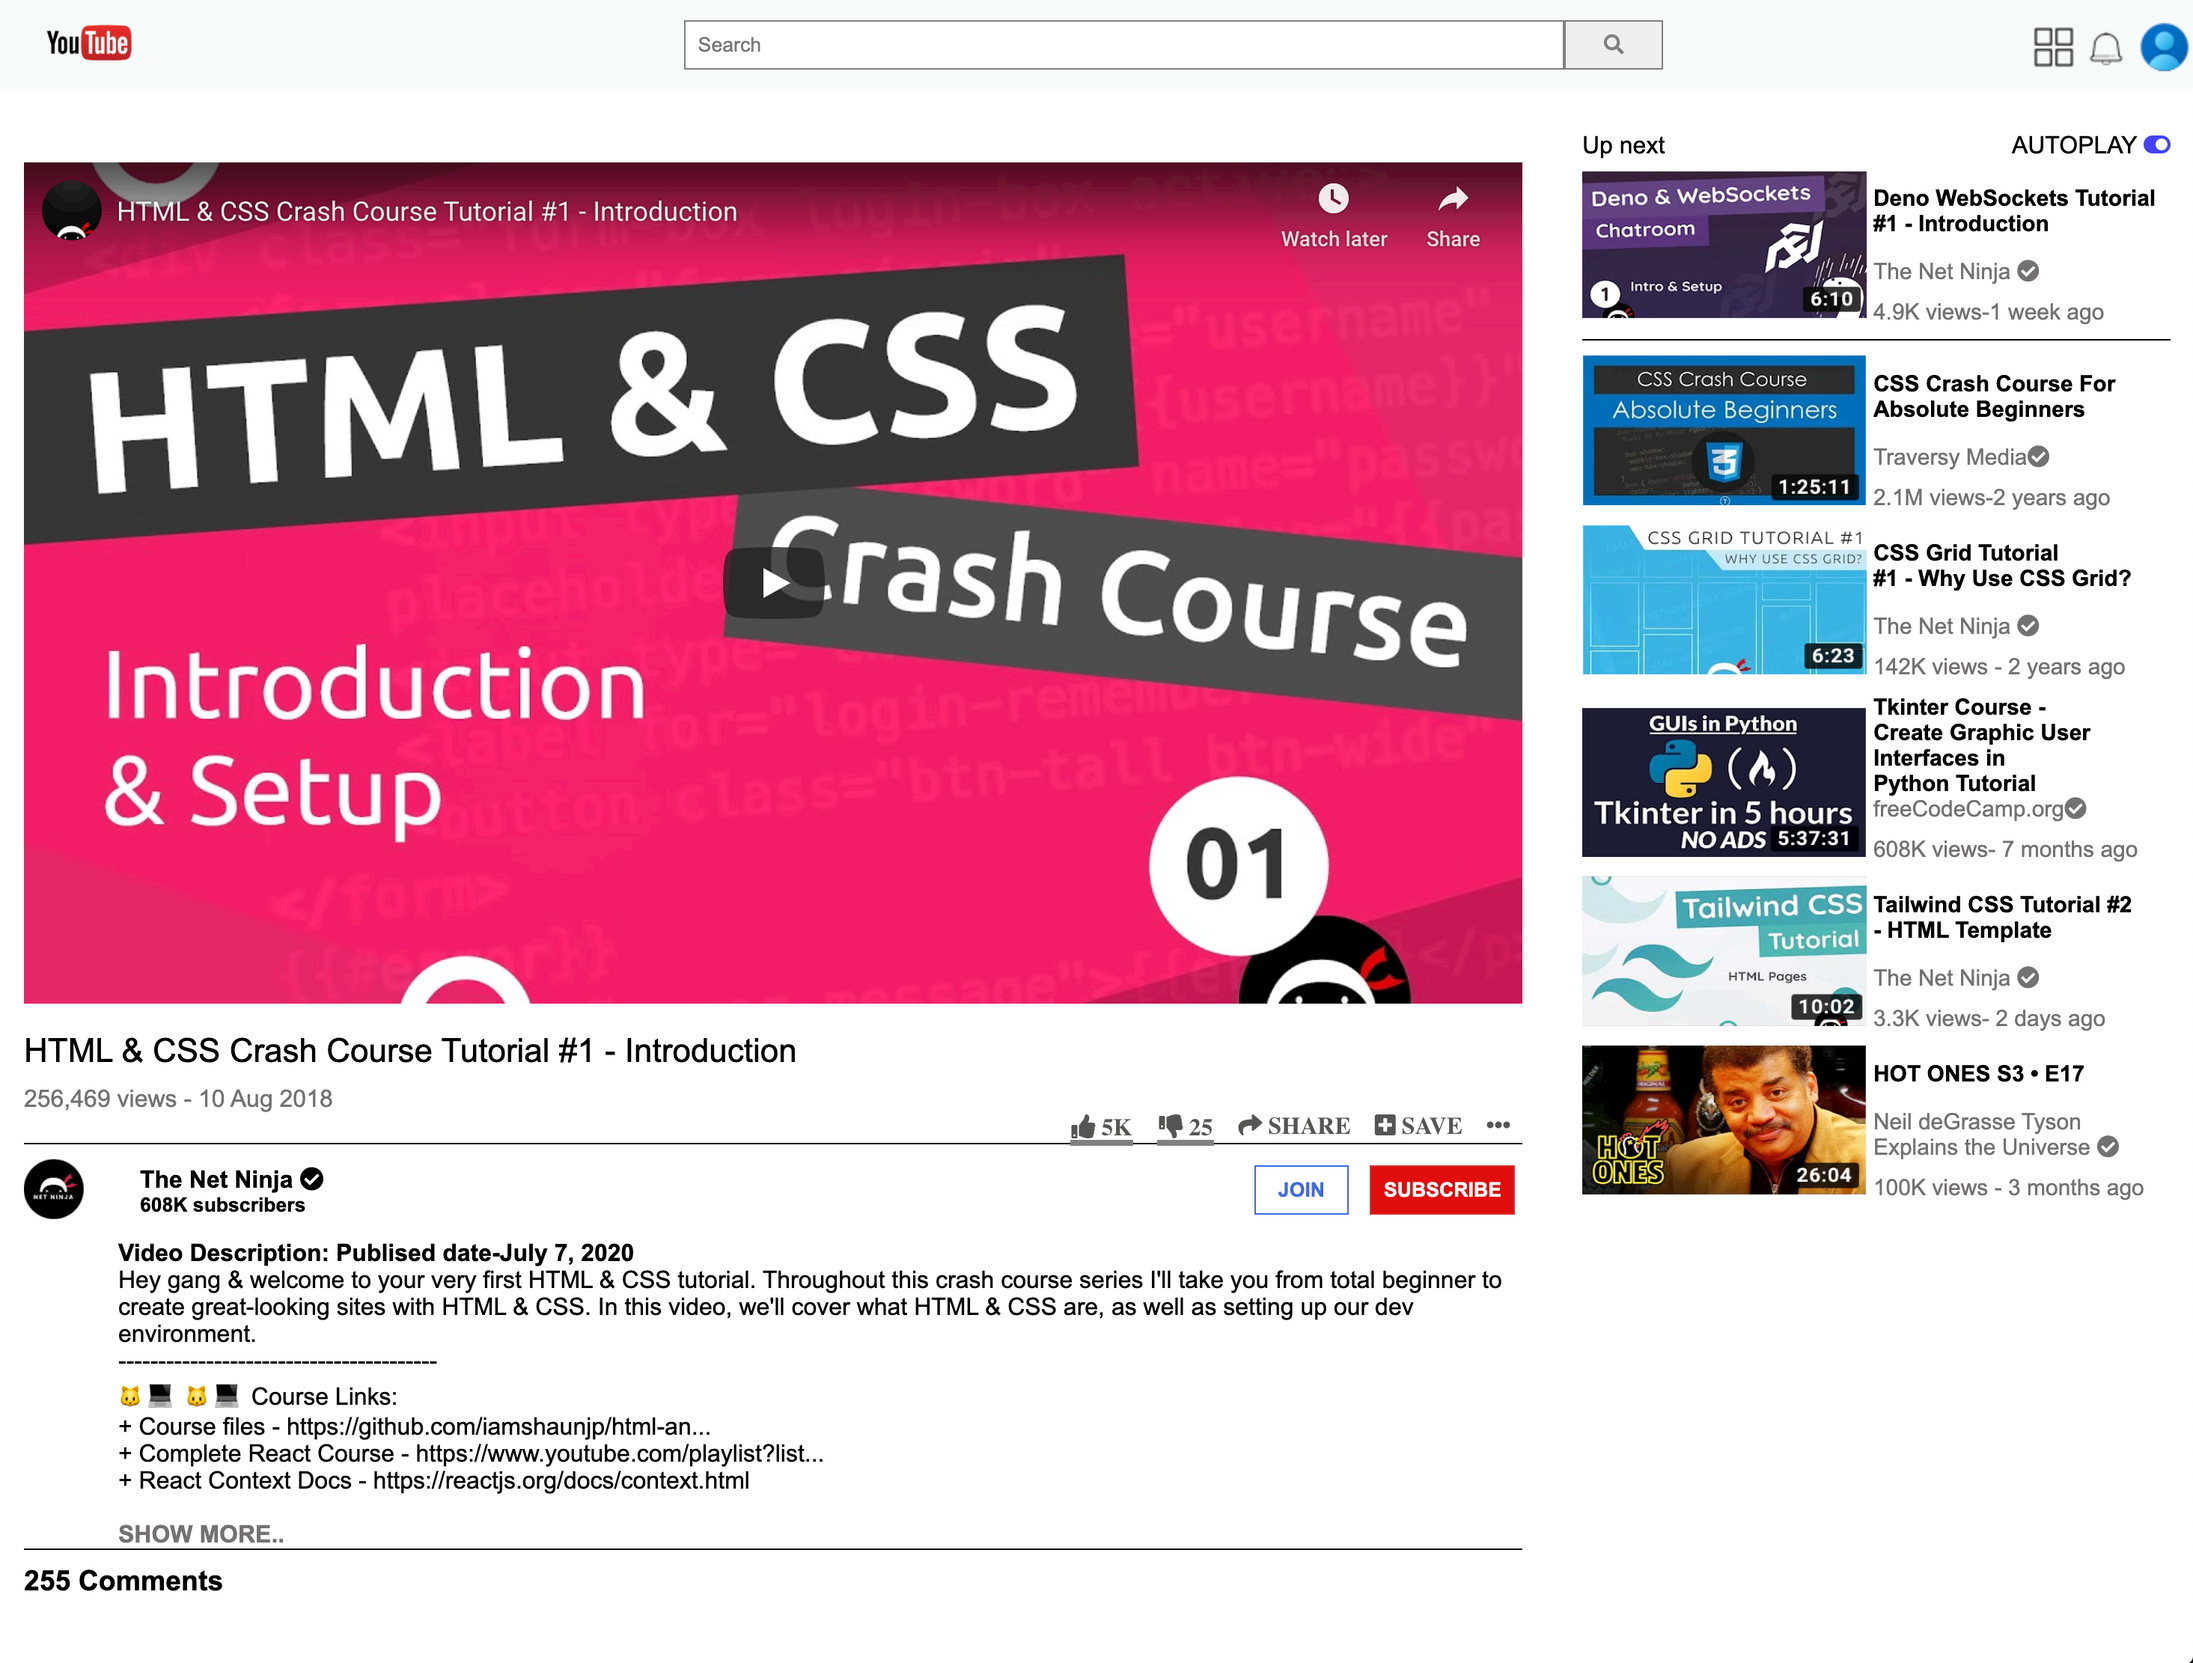
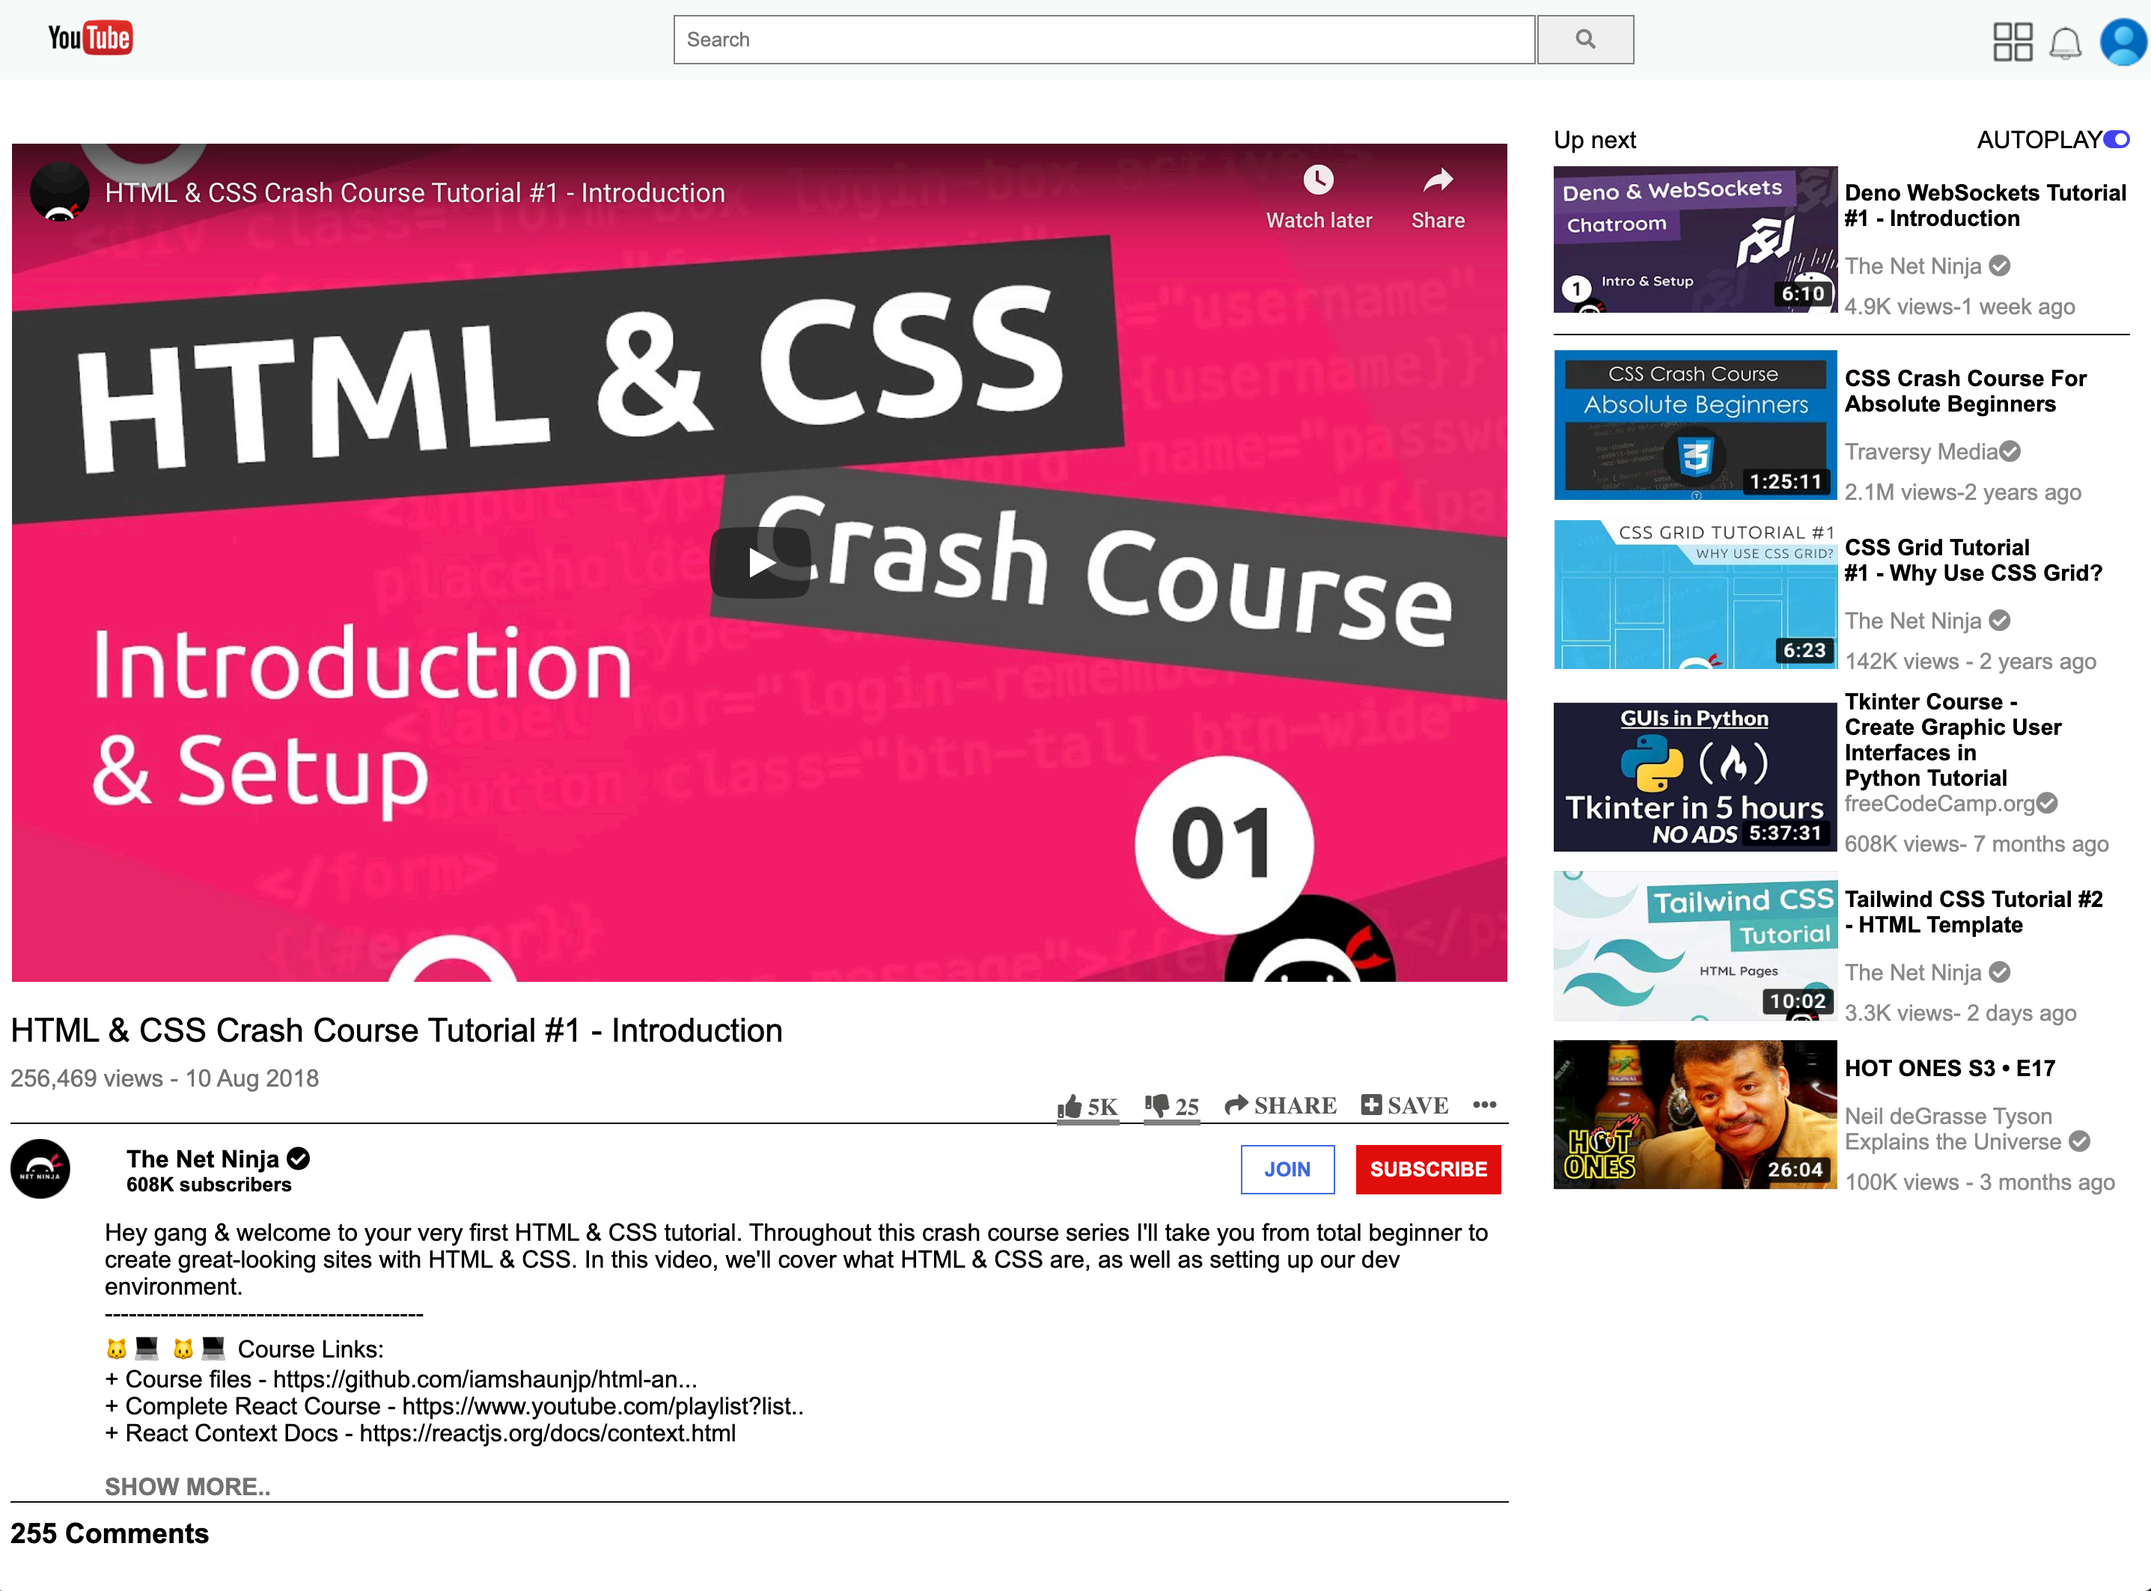
fixed css errors & added new DP pic

diff --git a/style.css b/style.css
@@ -75,7 +75,7 @@ nav {
 }
 
 .video {
-    width: 68v;
+    width: 67vw;
     border: white 1px solid; 
 }
 
@@ -112,7 +112,7 @@ h4 {
     height: 40px;
     width: 40px;
     border-radius: 2%;
-    display: inline block;
+    
 }
 
 .fa-icon-styling{
@@ -157,7 +157,7 @@ h4 {
     color: royalblue;
     border: royalblue solid 1px;
     background-color: white;
-    font-weight: 550;
+    font-weight: 600;
     padding:  8px 15px 8px 15px ;
 } 
 
